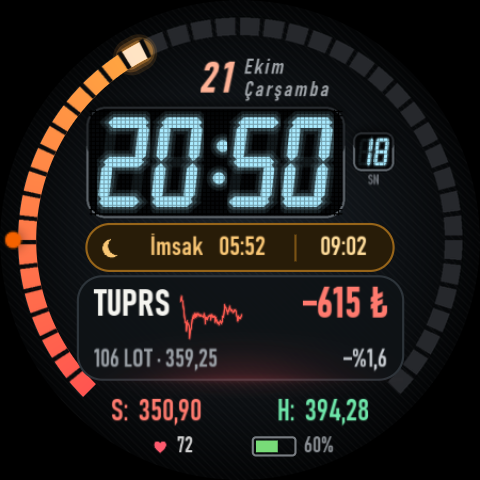
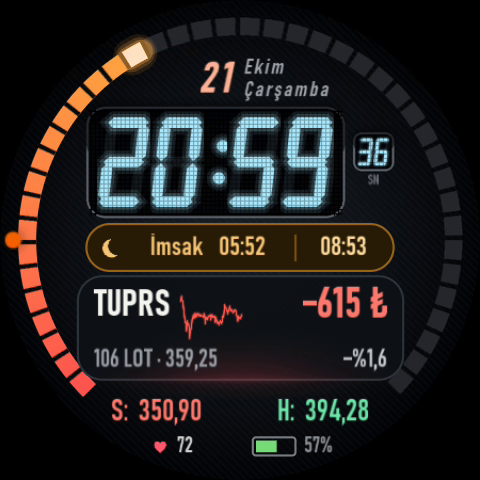
Saat A: halka ucu 2 sn'lik nefes efekti (kosinüs, SECOND_MILLISECOND); segment boşlukları halenin altında

diff --git a/WatchApp/design/gen_faces.py b/WatchApp/design/gen_faces.py
@@ -376,21 +376,26 @@ def face_ultra():
         return (f'<SweepGradient centerX="225" centerY="225" startAngle="225" endAngle="495" '
                 f'colors="#{al}ff5550 #{al}ffbe3c #{al}3ce1aa" positions="0 0.5 1" />')
     glow_0, glow_1, glow_2 = _gg("1e"), _gg("34"), _gg("5a")
+    # nefes efekti: parça alfası 255→40 (1 sn) ve geri — sonsuz döngü, ekran açıkken
+    # (Animation öğesi ileri-geri gidemiyor: söner sonra başa atlar) → kosinüsle gerçek nefes, 2 sn periyot
+    BREATH = '<Transform target="alpha" value="147 + 108 * cos(3.14159265 * [SECOND_MILLISECOND])" />'
     ring_body = (
         # segmentli parlak yay
         f'<PartDraw x="0" y="0" width="450" height="450">{amb(110)}'
         f'<Arc {arc_box} startAngle="225" endAngle="225"><Transform target="endAngle" value="225 + 270 * {prog}" />'
         f'<Stroke color="#ffffffff" thickness="{TH}">{grad}</Stroke></Arc></PartDraw>'
+        # segment boşlukları — halenin altında kalsın (parlama alanında siyah çizik görünmesin)
+        f'<PartImage x="0" y="0" width="450" height="450">{amb(0)}<Image resource="ring_gaps" /></PartImage>'
         # son yanan segment parlar — yerinde, segment şeklinde (boşluklar kesmez)
-        f'<PartDraw x="0" y="0" width="450" height="450">{amb(0)}'
+        f'<PartDraw x="0" y="0" width="450" height="450">{amb(0)}{BREATH}'
         f'<Arc {arc_box} startAngle="225" endAngle="225">'
         f'<Transform target="startAngle" value="{seg_a0} + 1.6" /><Transform target="endAngle" value="{seg_a0} + {SEG - GAPD - 1.6:.3f}" />'
         f'<Stroke color="#ffffffff" thickness="{TH + 18}" cap="ROUND">{glow_0}</Stroke></Arc></PartDraw>'
-        f'<PartDraw x="0" y="0" width="450" height="450">{amb(0)}'
+        f'<PartDraw x="0" y="0" width="450" height="450">{amb(0)}{BREATH}'
         f'<Arc {arc_box} startAngle="225" endAngle="225">'
         f'<Transform target="startAngle" value="{seg_a0} + 1.2" /><Transform target="endAngle" value="{seg_a0} + {SEG - GAPD - 1.2:.3f}" />'
         f'<Stroke color="#ffffffff" thickness="{TH + 11}" cap="ROUND">{glow_1}</Stroke></Arc></PartDraw>'
-        f'<PartDraw x="0" y="0" width="450" height="450">{amb(0)}'
+        f'<PartDraw x="0" y="0" width="450" height="450">{amb(0)}{BREATH}'
         f'<Arc {arc_box} startAngle="225" endAngle="225">'
         f'<Transform target="startAngle" value="{seg_a0} + 0.8" /><Transform target="endAngle" value="{seg_a0} + {SEG - GAPD - 0.8:.3f}" />'
         f'<Stroke color="#ffffffff" thickness="{TH + 5}" cap="ROUND">{glow_2}</Stroke></Arc></PartDraw>'
@@ -398,7 +403,7 @@ def face_ultra():
         f'<Arc {arc_box} startAngle="225" endAngle="225">'
         f'<Transform target="startAngle" value="{seg_a0}" /><Transform target="endAngle" value="{seg_a0} + {SEG - GAPD:.3f}" />'
         f'<Stroke color="#ffffffff" thickness="{TH}">{grad}</Stroke></Arc></PartDraw>'
-        f'<PartDraw x="0" y="0" width="450" height="450">{amb(110)}'
+        f'<PartDraw x="0" y="0" width="450" height="450">{amb(110)}{BREATH}'
         f'<Arc {arc_box} startAngle="225" endAngle="225">'
         f'<Transform target="startAngle" value="{seg_a0}" /><Transform target="endAngle" value="{seg_a0} + {SEG - GAPD:.3f}" />'
         f'<Stroke color="#b0ffffff" thickness="{TH}" /></Arc></PartDraw>'
@@ -443,7 +448,6 @@ def face_ultra():
 
         {slot(0, 0, 0, 450, 450, "RANGED_VALUE", APP + "RingComplicationService", "RANGED_VALUE", "slot_alsat", ring_body,
               '<BoundingOval x="0" y="0" width="450" height="450" />')}
-        <PartImage x="0" y="0" width="450" height="450">{amb(0)}<Image resource="ring_gaps" /></PartImage>
 
         {text(0, DY + k(3) + 2, DX, k(40), "%s", ["[DAY]"], "bci", k(40), "#ffffb296", "END", 140)}
         {text(DX + k(8), DY + k(3), 450 - DX - k(8), k(22), "%s", ["[MONTH_F]"], "sci", k(20), "#ffa0a5aa", "START", 110)}
